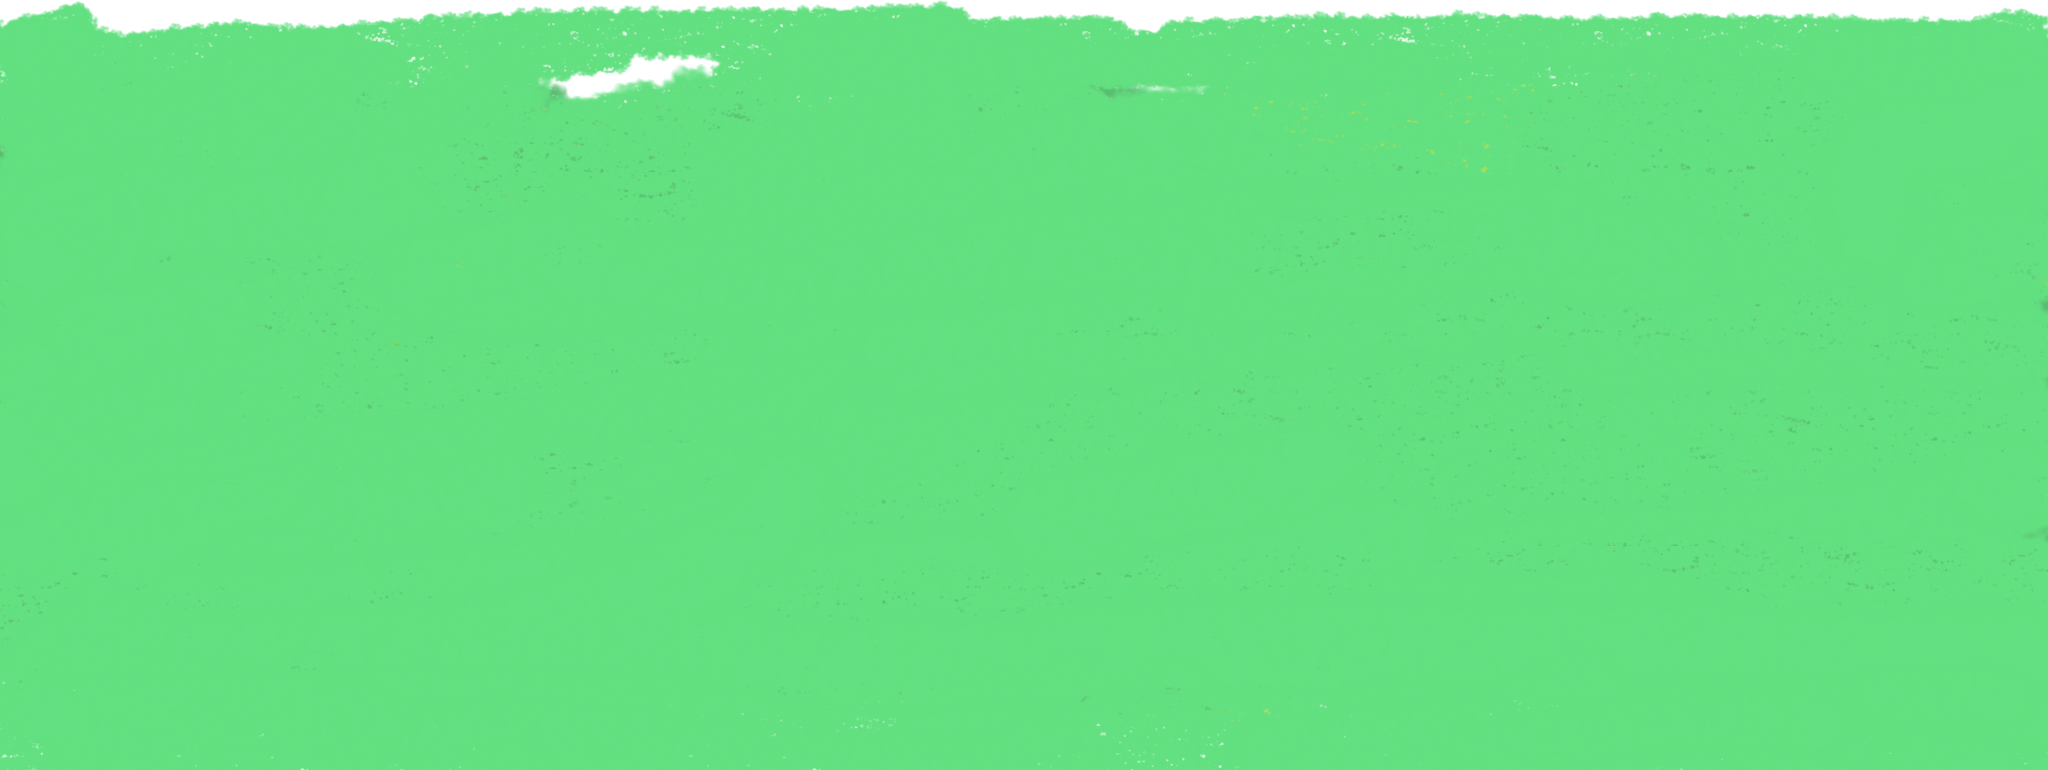
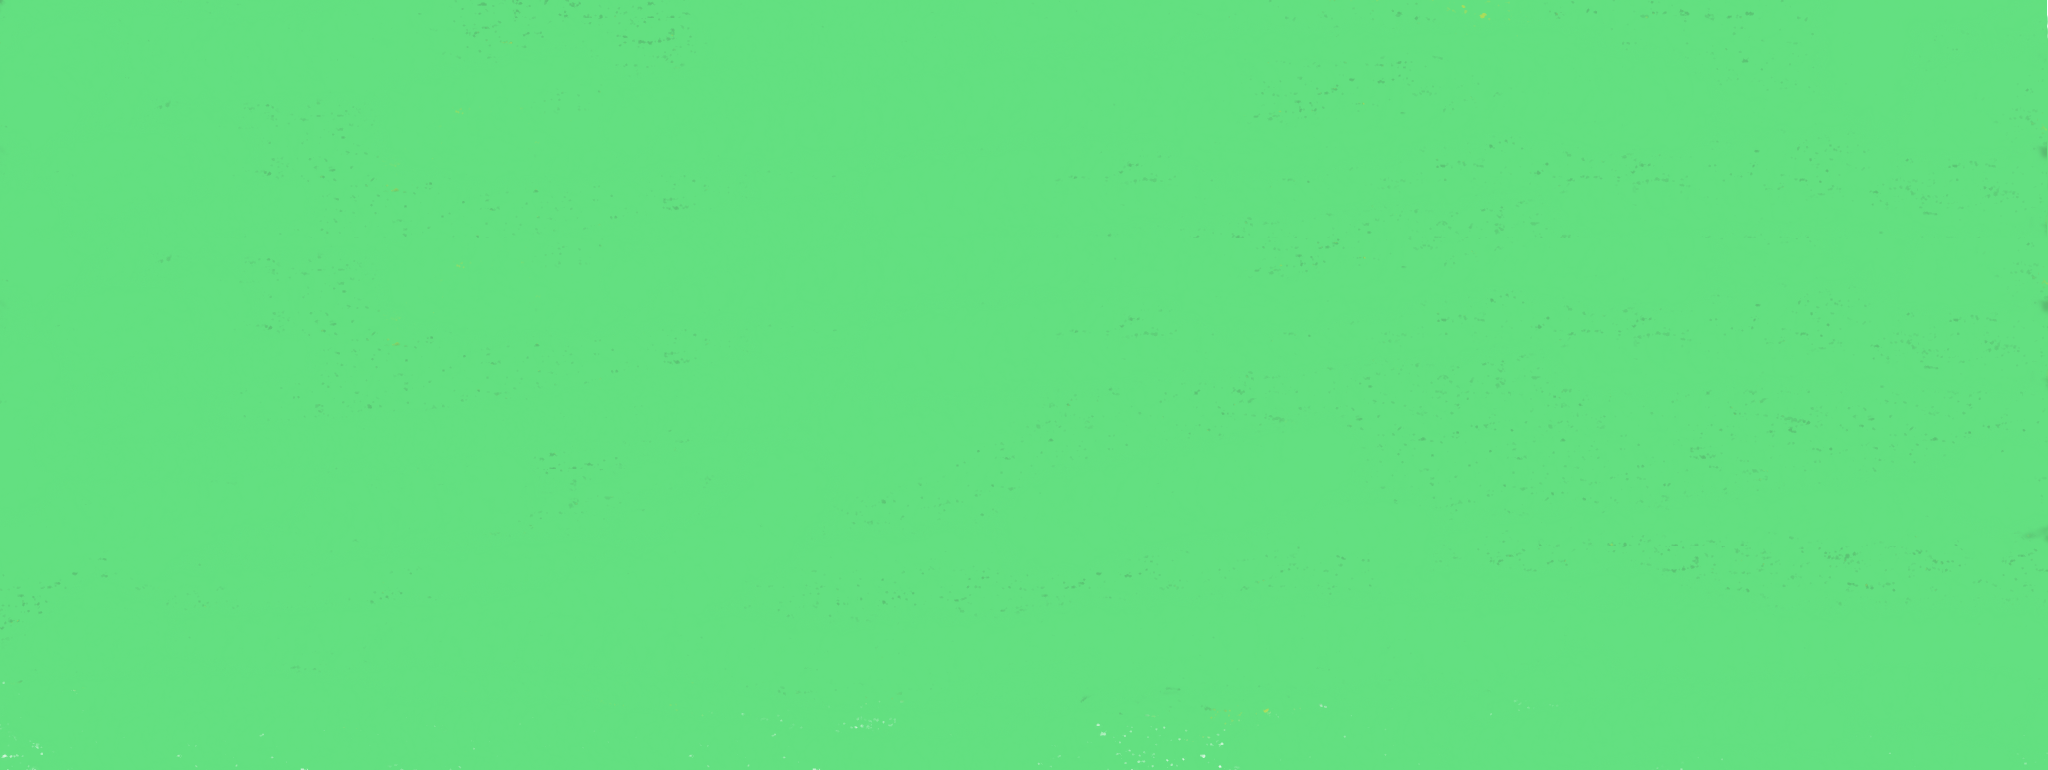
Add bush, fench, and hills.

Changed region(s): [[0.0, 0.0, 1.0, 0.0623], [0.25, 0.0623, 0.375, 0.1247], [0.5625, 0.0935, 0.5938, 0.1247]]

diff --git a/src/Caterpillar/index.ts b/src/Caterpillar/index.ts
@@ -4,8 +4,15 @@ import apples from "./images/apples.png";
 import caterpillar from "./images/caterpillar.png";
 import sky from "./images/sky.png";
 import grass from "./images/grass.png";
+import fence from "./images/fence.png";
+import hillFar from "./images/hill-far.png";
+import hillNear from "./images/hill-near.png";
+import bush from "./images/bush.png"
 
 Elm.Caterpillar.Main.init({
   node: document.querySelector("main"),
-  flags: { apple, caterpillar, sky, grass }
+  flags: {
+    apple, caterpillar, sky, grass, fence, hillFar,
+    hillNear, bush
+  }
 });
